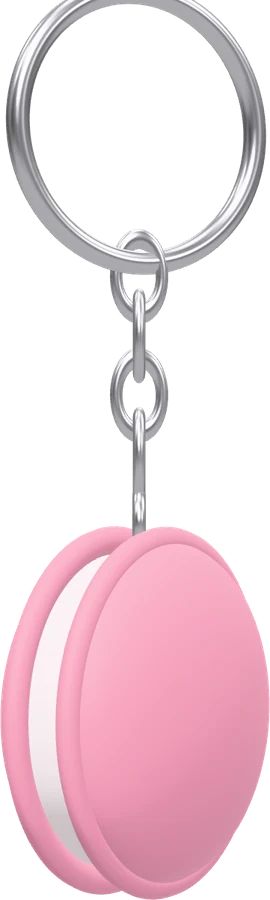
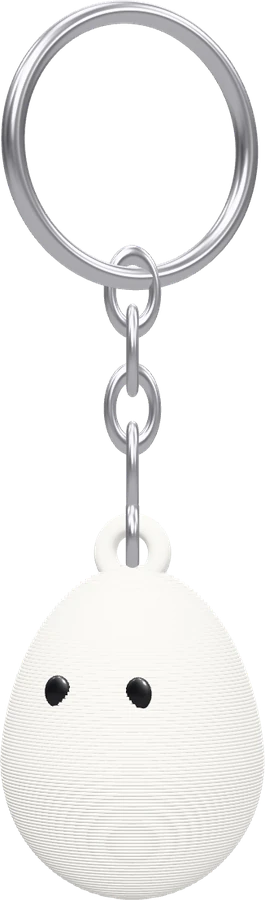
NiDoo: llavero blanco impreso y completo en la tarjeta Llaveros
Claude-Session: https://claude.ai/code/session_01CakWamoGNygWeoKn5u5X5H

diff --git a/index.html b/index.html
@@ -254,7 +254,7 @@ footer .legal{margin-top:16px;display:flex;justify-content:space-between;gap:12p
     </section>
     <section class="tile dark" data-tilt>
       <div class="eyebrow">Próximamente</div><h3 class="g-d">Llaveros</h3><p class="sub">Tu pop favorito, siempre con vos.</p>
-      <div class="shot"><img src="media/nidoo-llavero.webp" alt="Llavero NiDoo: un macaron rosa colgando de una argolla de metal" loading="lazy" width="270" height="900"></div>
+      <div class="shot"><img src="media/nidoo-llavero.webp?v=2" alt="Llavero NiDoo: un huevito blanco impreso en 3D colgando de una argolla de metal" loading="lazy" width="265" height="900"></div>
     </section>
     <section class="tile dark" data-tilt>
       <div class="eyebrow">Hecho en Argentina</div><h3 class="g-d">Capa por capa.</h3><p class="sub">Cada pieza se imprime, se lija y se arma a mano.</p>
